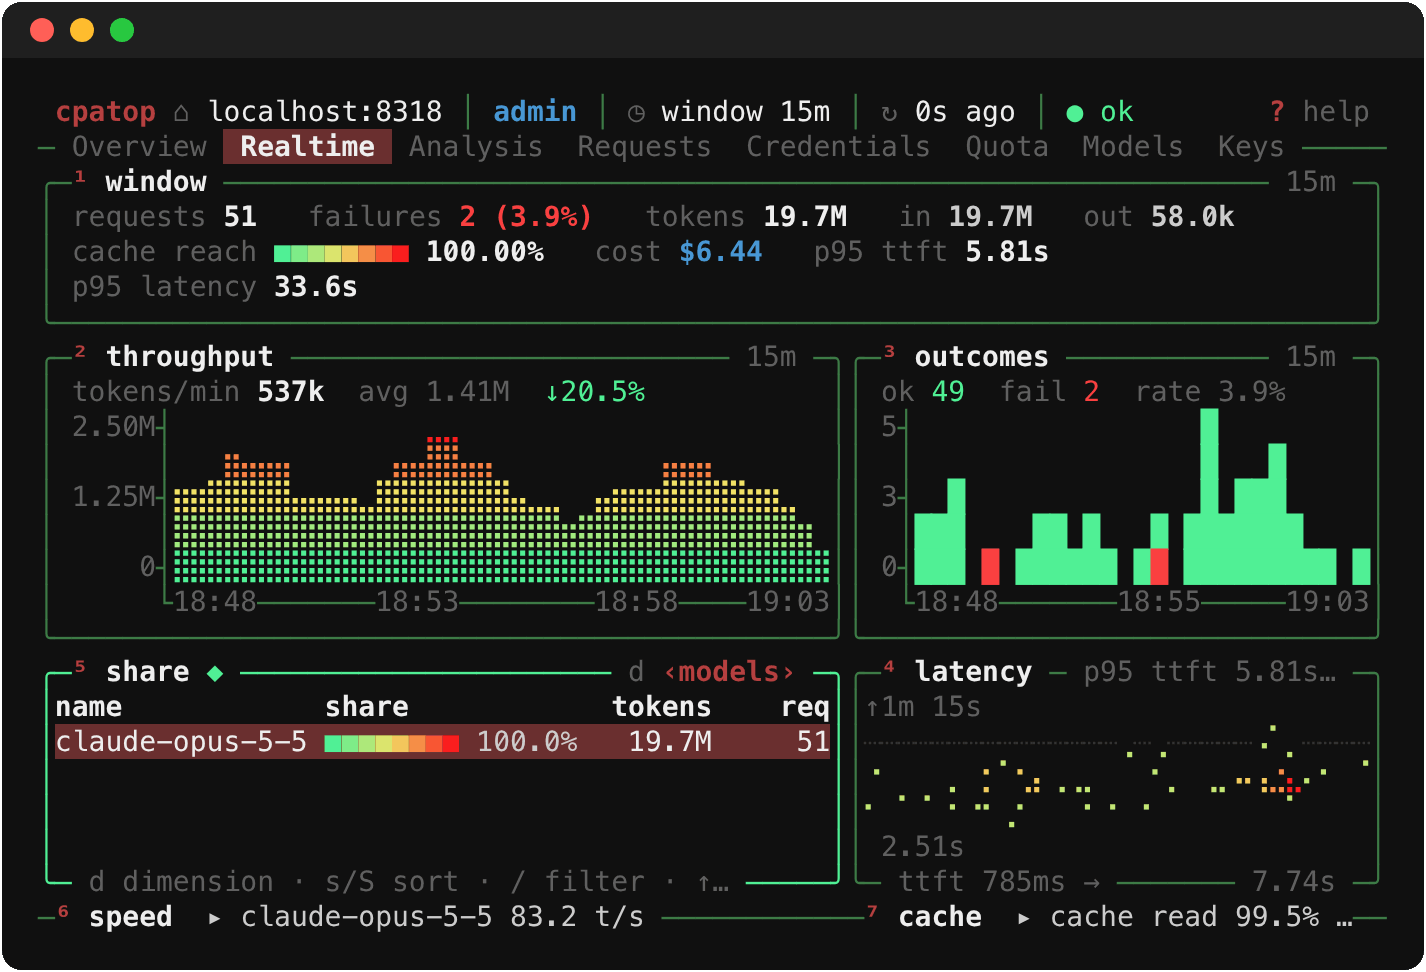
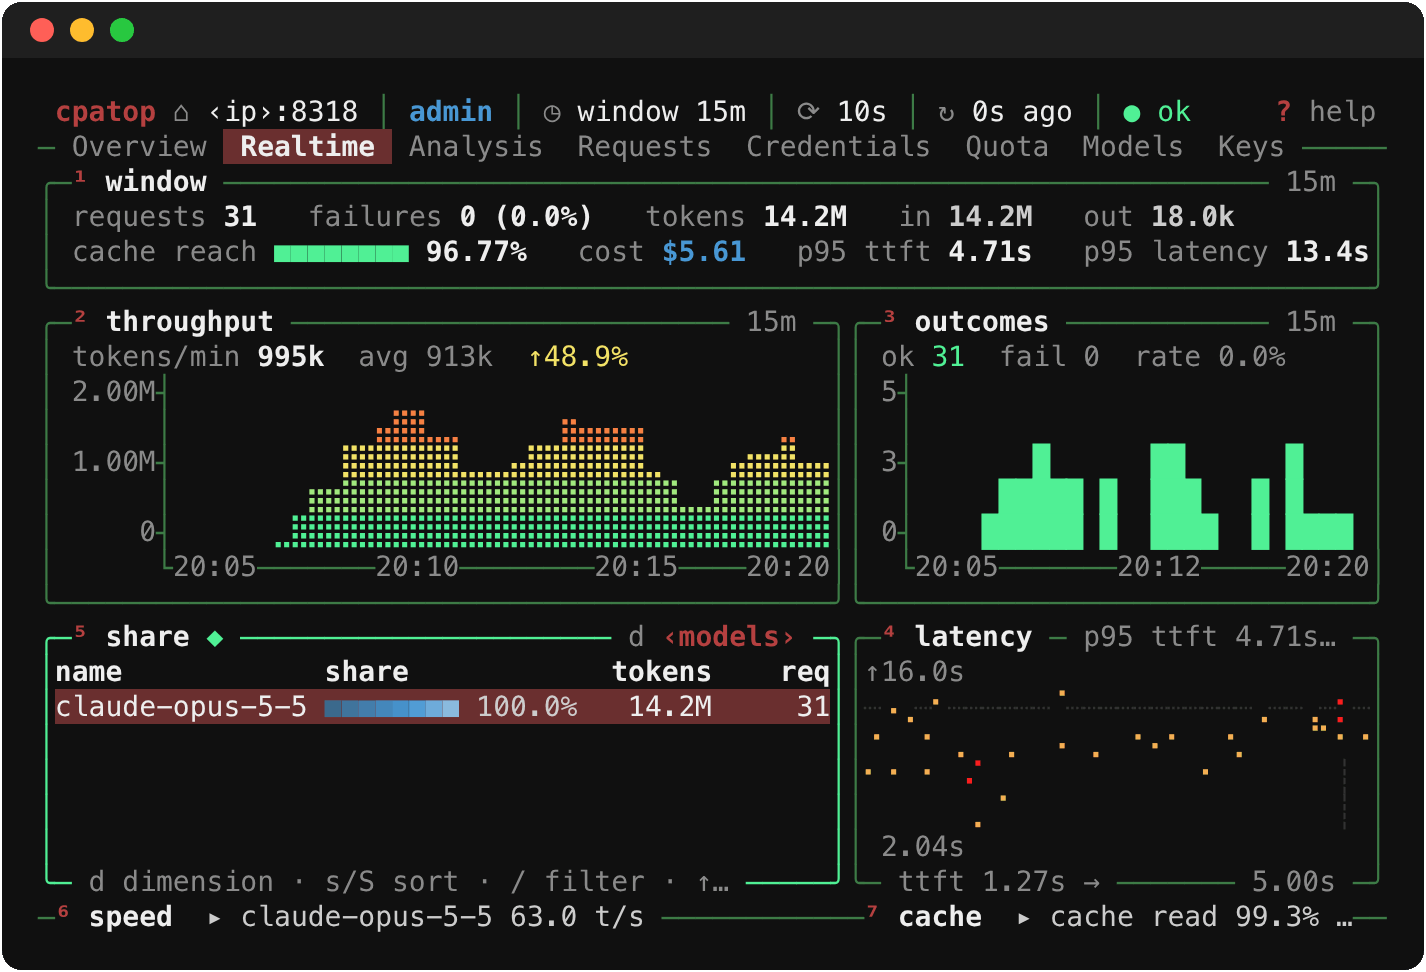
Refresh screenshots against an IP base URL
Every scene was captured with --privacy from http://127.0.0.1:8318, so the
header shows ‹ip›:8318; README notes it.

diff --git a/README.md b/README.md
@@ -39,8 +39,10 @@ gradient meters and sparklines.
 
 ## Screenshots
 
-All captured from a live Keeper with `--privacy`: e-mail addresses become
-`account-N`, API keys are shown only as `key #id`, IP addresses are hidden.
+All captured from a live Keeper with `--privacy`, reached at
+`http://127.0.0.1:8318` to show that even the server address is masked:
+e-mail addresses become `account-N`, API keys are shown only as `key #id`,
+IP addresses become `‹ip›`.
 
 | | |
 |---|---|
